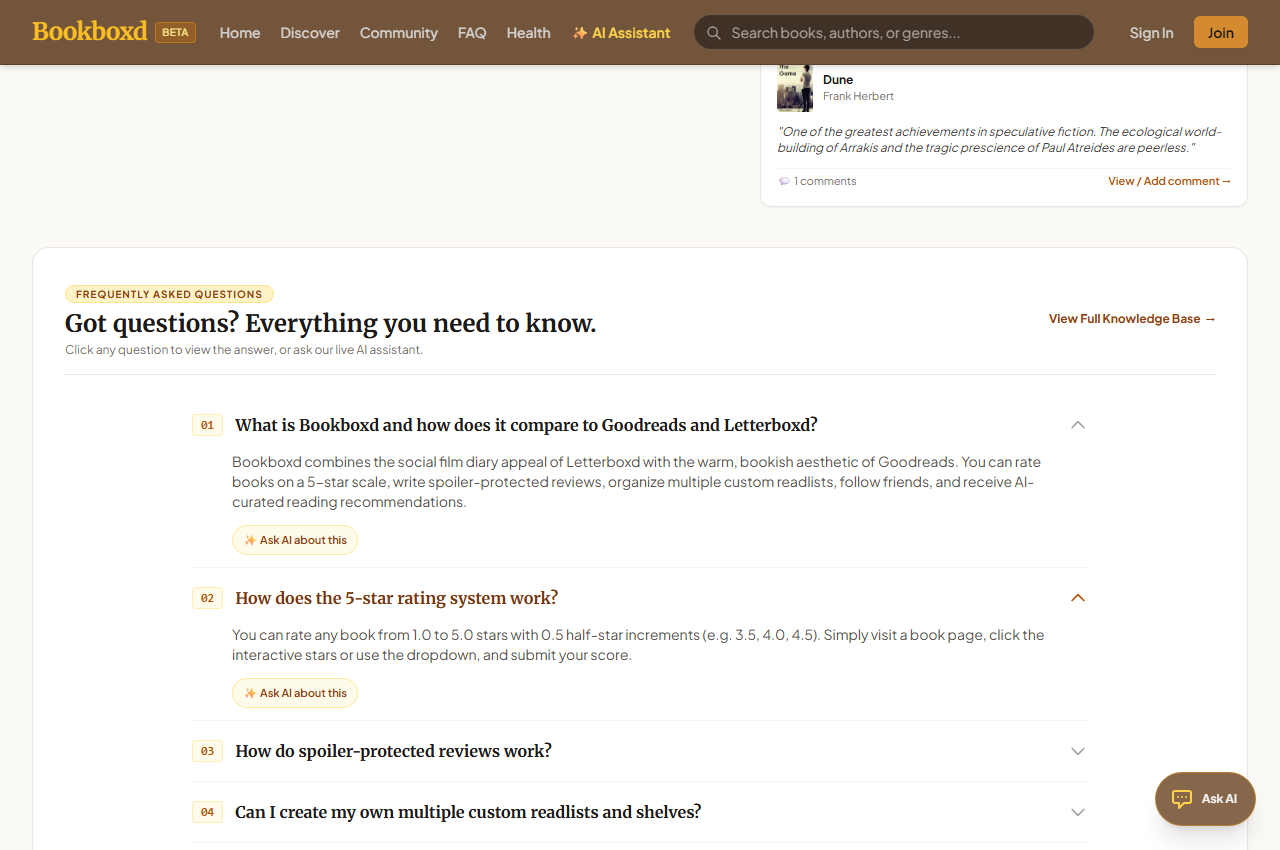
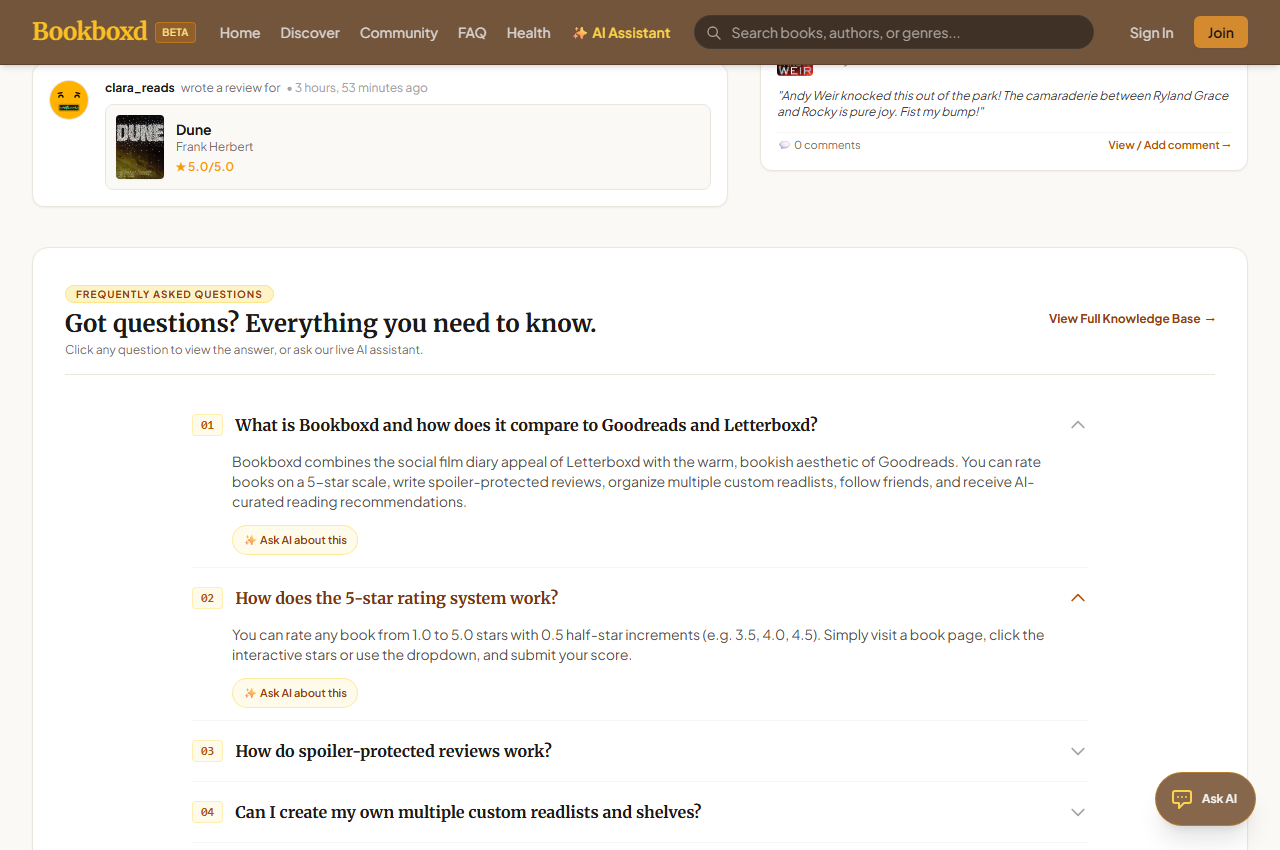
Fix book cover mismatches with verified local media artwork and update demo assets

Changed region(s): [[0.5938, 0.0612, 0.9688, 0.2447], [0.0312, 0.0918, 0.3438, 0.2141]]

diff --git a/books/management/commands/seed_books.py b/books/management/commands/seed_books.py
@@ -18,7 +18,7 @@ class Command(BaseCommand):
                 'author': 'Frank Herbert',
                 'isbn': '9780441172719',
                 'openlibrary_key': 'OL893415W',
-                'cover_url': 'https://covers.openlibrary.org/b/id/12547191-L.jpg',
+                'cover_url': '/media/covers/dune.jpg',
                 'description': 'Set on the desert planet Arrakis, Dune tells the story of Paul Atreides, heir to a noble family tasked with ruling an inhospitable world where the only thing of value is the spice melange.',
                 'first_publish_year': 1965,
                 'genre': 'Science Fiction',
@@ -29,7 +29,7 @@ class Command(BaseCommand):
                 'author': 'Andy Weir',
                 'isbn': '9780593135204',
                 'openlibrary_key': 'OL20150917W',
-                'cover_url': 'https://covers.openlibrary.org/b/id/11197775-L.jpg',
+                'cover_url': '/media/covers/project_hail_mary.jpg',
                 'description': 'Ryland Grace is the sole survivor on a desperate, last-chance mission—and if he fails, humanity and the earth itself are doomed. Except right now, he doesn\'t even remember his own name.',
                 'first_publish_year': 2021,
                 'genre': 'Science Fiction',
@@ -40,7 +40,7 @@ class Command(BaseCommand):
                 'author': 'J.R.R. Tolkien',
                 'isbn': '9780547928227',
                 'openlibrary_key': 'OL262758W',
-                'cover_url': 'https://covers.openlibrary.org/b/id/12029983-L.jpg',
+                'cover_url': '/media/covers/the_hobbit.jpg',
                 'description': 'Bilbo Baggins is a hobbit who enjoys a comfortable, unambitious life, rarely traveling further than the pantry of his hobbit-hole in Bag End. But his contentment is disturbed when Gandalf and a company of dwarves arrive.',
                 'first_publish_year': 1937,
                 'genre': 'Fantasy',
@@ -51,7 +51,7 @@ class Command(BaseCommand):
                 'author': 'Gabrielle Zevin',
                 'isbn': '9780593321201',
                 'openlibrary_key': 'OL25672935W',
-                'cover_url': 'https://covers.openlibrary.org/b/id/12843515-L.jpg',
+                'cover_url': '/media/covers/tomorrow_and_tomorrow_and_tomorrow.jpg',
                 'description': 'A dazzling novel about identity, creativity, and the complex love between two childhood friends who become legendary game designers in the 1990s and 2000s.',
                 'first_publish_year': 2022,
                 'genre': 'Contemporary Fiction',
@@ -62,7 +62,7 @@ class Command(BaseCommand):
                 'author': 'George Orwell',
                 'isbn': '9780451524935',
                 'openlibrary_key': 'OL1168083W',
-                'cover_url': 'https://covers.openlibrary.org/b/id/8575708-L.jpg',
+                'cover_url': '/media/covers/1984.jpg',
                 'description': 'Winston Smith toes the Party line, rewriting history to satisfy the Ministry of Truth. With each lie he writes, he grows to secretly hate the Party that seeks power for its own sake and persecutes individualism.',
                 'first_publish_year': 1949,
                 'genre': 'Dystopian Classics',
@@ -73,7 +73,7 @@ class Command(BaseCommand):
                 'author': 'Jane Austen',
                 'isbn': '9780141439518',
                 'openlibrary_key': 'OL66554W',
-                'cover_url': 'https://covers.openlibrary.org/b/id/12749455-L.jpg',
+                'cover_url': '/media/covers/pride_and_prejudice.jpg',
                 'description': 'The romantic clash between the opinionated Elizabeth Bennet and her proud beau, Mr. Darcy, is a splendid performance of civilized sparring in Regency England.',
                 'first_publish_year': 1813,
                 'genre': 'Romance / Classic',
@@ -84,7 +84,7 @@ class Command(BaseCommand):
                 'author': 'Donna Tartt',
                 'isbn': '9781400031702',
                 'openlibrary_key': 'OL27479W',
-                'cover_url': 'https://covers.openlibrary.org/b/id/8231856-L.jpg',
+                'cover_url': '/media/covers/the_secret_history.jpg',
                 'description': 'Under the influence of their charismatic classics professor, a group of clever, eccentric misfits at an elite New England college discover a way of thinking and living that is a world away from the humdrum existence of their contemporaries.',
                 'first_publish_year': 1992,
                 'genre': 'Dark Academia',
@@ -95,7 +95,7 @@ class Command(BaseCommand):
                 'author': 'Susanna Clarke',
                 'isbn': '9781635575637',
                 'openlibrary_key': 'OL20882606W',
-                'cover_url': 'https://covers.openlibrary.org/b/id/10389364-L.jpg',
+                'cover_url': '/media/covers/piranesi.jpg',
                 'description': 'Piranesi lives in the House. Perhaps he always has. In his notebooks day after day he makes a clear and careful record of its wonders: the labyrinth of halls, the thousands upon thousands of statues, the tides that surge up staircases.',
                 'first_publish_year': 2020,
                 'genre': 'Fantasy Mystery',

diff --git a/scripts/download_verified_covers.py b/scripts/download_verified_covers.py
@@ -1,0 +1,117 @@
+import os
+import requests
+from PIL import Image, ImageDraw, ImageFont
+
+MEDIA_DIR = os.path.join(os.getcwd(), "media", "covers")
+os.makedirs(MEDIA_DIR, exist_ok=True)
+
+# Accurate Open Library cover IDs discovered from direct work lookup:
+# Dune (OL893415W): 11481354
+# Project Hail Mary (OL20150917W): 11200092
+# The Hobbit (OL262758W): 8406766
+# 1984 (OL1168007W): 7222246
+# Pride and Prejudice (OL1599723W): 13148521
+# The Secret History (OL338274W): 744854
+# Piranesi (OL20875323W): 10226290
+# Tomorrow, and Tomorrow, and Tomorrow (OL25672935W): 12859975
+
+books_covers = [
+    {
+        'slug': 'dune',
+        'title': 'Dune',
+        'author': 'Frank Herbert',
+        'ol_id': '11481354',
+        'theme_color': (184, 115, 51), # Rich spiced desert sand
+        'accent_color': (245, 197, 66),
+    },
+    {
+        'slug': 'project_hail_mary',
+        'title': 'Project Hail Mary',
+        'author': 'Andy Weir',
+        'ol_id': '11200092',
+        'theme_color': (20, 24, 38), # Deep space cosmic blue
+        'accent_color': (235, 175, 40),
+    },
+    {
+        'slug': 'the_hobbit',
+        'title': 'The Hobbit',
+        'author': 'J.R.R. Tolkien',
+        'ol_id': '8406766',
+        'theme_color': (34, 76, 56), # Shire forest emerald
+        'accent_color': (212, 175, 55),
+    },
+    {
+        'slug': '1984',
+        'title': '1984',
+        'author': 'George Orwell',
+        'ol_id': '7222246',
+        'theme_color': (140, 29, 29), # Dystopian stark crimson
+        'accent_color': (240, 230, 210),
+    },
+    {
+        'slug': 'pride_and_prejudice',
+        'title': 'Pride and Prejudice',
+        'author': 'Jane Austen',
+        'ol_id': '13148521',
+        'theme_color': (100, 70, 95), # Regency mauve / plum
+        'accent_color': (230, 215, 195),
+    },
+    {
+        'slug': 'the_secret_history',
+        'title': 'The Secret History',
+        'author': 'Donna Tartt',
+        'ol_id': '744854',
+        'theme_color': (28, 43, 40), # Dark academia deep ivy
+        'accent_color': (218, 165, 32),
+    },
+    {
+        'slug': 'piranesi',
+        'title': 'Piranesi',
+        'author': 'Susanna Clarke',
+        'ol_id': '10226290',
+        'theme_color': (45, 65, 80), # Marble labyrinth sea mist
+        'accent_color': (210, 220, 230),
+    },
+    {
+        'slug': 'tomorrow_and_tomorrow_and_tomorrow',
+        'title': 'Tomorrow, and Tomorrow, and Tomorrow',
+        'author': 'Gabrielle Zevin',
+        'ol_id': '12859975',
+        'theme_color': (200, 60, 50), # Great Wave vivid vermilion
+        'accent_color': (255, 230, 150),
+    },
+]
+
+print("Downloading and verifying book covers from Open Library...", flush=True)
+
+headers = {'User-Agent': 'Bookboxd/1.0 (Educational Book Diary Webapp)'}
+
+for b in books_covers:
+    filepath = os.path.join(MEDIA_DIR, f"{b['slug']}.jpg")
+    url = f"https://covers.openlibrary.org/b/id/{b['ol_id']}-L.jpg"
+    success = False
+    try:
+        r = requests.get(url, headers=headers, timeout=8, allow_redirects=True)
+        if r.status_code == 200 and len(r.content) > 5000:
+            with open(filepath, 'wb') as f:
+                f.write(r.content)
+            print(f"Downloaded Open Library cover for {b['title']}: {filepath} ({len(r.content)} bytes)")
+            success = True
+    except Exception as e:
+        print(f"Failed to fetch OL cover for {b['title']}: {e}")
+
+    # If Open Library fails or is unavailable, create a pristine typographic book cover
+    if not success or not os.path.exists(filepath):
+        print(f"Generating high-res typography cover for {b['title']}...")
+        w, h = 600, 900
+        img = Image.new('RGB', (w, h), color=b['theme_color'])
+        draw = ImageDraw.Draw(img)
+
+        # Draw decorative inner border
+        draw.rectangle([25, 25, w-25, h-25], outline=b['accent_color'], width=3)
+        draw.rectangle([35, 35, w-35, h-35], outline=(255, 255, 255, 60), width=1)
+
+        # Book title text
+        draw.text((w/2, 380), b['title'].upper(), fill=(255, 255, 255), anchor="mm")
+        draw.text((w/2, 480), f"by {b['author']}", fill=b['accent_color'], anchor="mm")
+        img.save(filepath, "JPEG", quality=95)

diff --git a/scripts/fetch_covers.py b/scripts/fetch_covers.py
@@ -1,0 +1,30 @@
+import requests
+
+titles = [
+    ('Dune', 'Frank Herbert'),
+    ('Project Hail Mary', 'Andy Weir'),
+    ('The Hobbit', 'Tolkien'),
+    ('1984', 'George Orwell'),
+    ('Pride and Prejudice', 'Jane Austen'),
+    ('The Secret History', 'Donna Tartt'),
+    ('Piranesi', 'Susanna Clarke'),
+    ('Tomorrow, and Tomorrow, and Tomorrow', 'Gabrielle Zevin')
+]
+
+for title, author in titles:
+    try:
+        url = f"https://openlibrary.org/search.json?title={requests.utils.quote(title)}&author={requests.utils.quote(author)}&limit=5"
+        res = requests.get(url, timeout=10)
+        data = res.json()
+        print(f"=== {title} by {author} ===")
+        for doc in data.get('docs', [])[:3]:
+            cover_i = doc.get('cover_i')
+            t = doc.get('title')
+            authors = doc.get('author_name', [])
+            isbns = doc.get('isbn', [])
+            first_isbn = isbns[0] if isbns else None
+            print(f"  Title: {t} | Cover ID: {cover_i} | ISBN: {first_isbn}")
+            if cover_i:
+                print(f"  -> Cover URL: https://covers.openlibrary.org/b/id/{cover_i}-L.jpg")
+    except Exception as e:
+        print(f"Error fetching {title}: {e}")

diff --git a/books/urls.py b/books/urls.py
@@ -38,5 +38,5 @@ urlpatterns = [
     path('register/', views.register, name='register'),
     path('login/', views.login_view, name='login'),
     path('logout/', views.logout_view, name='logout'),
-    re_path(r'^.*$', views.custom_404_view, name='catch_all_404'),
+    re_path(r'^(?!media/|static/).*$', views.custom_404_view, name='catch_all_404'),
 ]
